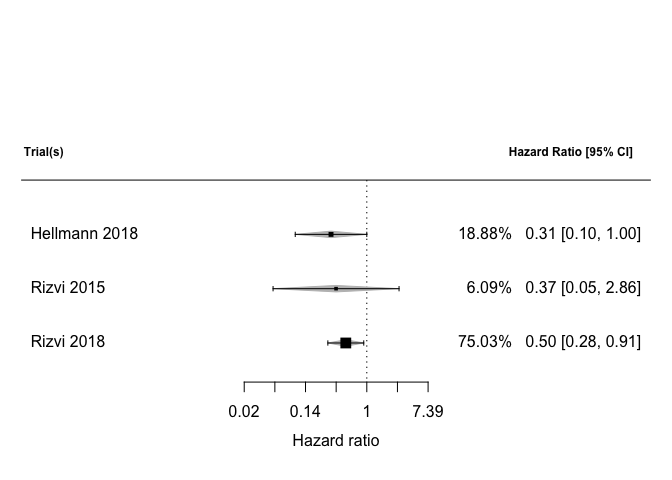
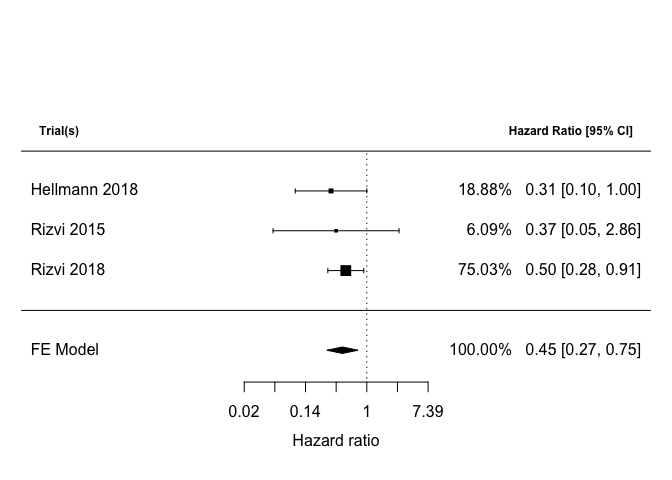
🐛 FIX: fix plotting problem

diff --git a/README.md b/README.md
@@ -3,6 +3,8 @@
 
 # metawho
 
+[![Lifecycle:
+experimental](https://img.shields.io/badge/lifecycle-experimental-orange.svg)](https://www.tidyverse.org/lifecycle/#experimental)
 [![AppVeyor build
 status](https://ci.appveyor.com/api/projects/status/github/ShixiangWang/metawho?branch=master&svg=true)](https://ci.appveyor.com/project/ShixiangWang/metawho)
 [![Travis build
@@ -117,30 +119,15 @@ Use `deft_do()` function to obtain model results.
 #> 
 #> $all$model
 #> 
-#> Fixed-Effects with Moderators Model (k = 6)
+#> Fixed-Effects Model (k = 6)
 #> 
-#> Test for Residual Heterogeneity: 
-#> QE(df = 0) = 0.0000, p-val = 1.0000
-#> 
-#> Test of Moderators (coefficient(s) 1:6): 
-#> QM(df = 6) = 25.0790, p-val = 0.0003
+#> Test for Heterogeneity: 
+#> Q(df = 5) = 18.8872, p-val = 0.0020
 #> 
 #> Model Results:
 #> 
-#>                            estimate      se     zval    pval    ci.lb
-#> entryHellmann 2018-Female   -1.2730  0.4387  -2.9015  0.0037  -2.1328
-#> entryHellmann 2018-Male     -0.1054  0.4030  -0.2614  0.7937  -0.8952
-#> entryRizvi 2015-Female      -2.2073  0.8501  -2.5966  0.0094  -3.8733
-#> entryRizvi 2015-Male        -1.2040  0.6143  -1.9600  0.0500  -2.4079
-#> entryRizvi 2018-Female      -0.4620  0.2082  -2.2190  0.0265  -0.8701
-#> entryRizvi 2018-Male         0.2231  0.2144   1.0410  0.2979  -0.1970
-#>                              ci.ub    
-#> entryHellmann 2018-Female  -0.4131  **
-#> entryHellmann 2018-Male     0.6845    
-#> entryRizvi 2015-Female     -0.5412  **
-#> entryRizvi 2015-Male       -0.0000   *
-#> entryRizvi 2018-Female     -0.0539   *
-#> entryRizvi 2018-Male        0.6433    
+#> estimate      se     zval    pval    ci.lb    ci.ub   
+#>  -0.3207  0.1289  -2.4883  0.0128  -0.5732  -0.0681  *
 #> 
 #> ---
 #> Signif. codes:  0 '***' 0.001 '**' 0.01 '*' 0.05 '.' 0.1 ' ' 1 
@@ -160,20 +147,15 @@ Use `deft_do()` function to obtain model results.
 #> 
 #> $subgroup$model
 #> 
-#> Fixed-Effects with Moderators Model (k = 3)
+#> Fixed-Effects Model (k = 3)
 #> 
-#> Test for Residual Heterogeneity: 
-#> QE(df = 0) = 0.0000, p-val = 1.0000
-#> 
-#> Test of Moderators (coefficient(s) 1:3): 
-#> QM(df = 3) = 10.0137, p-val = 0.0185
+#> Test for Heterogeneity: 
+#> Q(df = 2) = 0.5657, p-val = 0.7536
 #> 
 #> Model Results:
 #> 
-#>                     estimate      se     zval    pval    ci.lb    ci.ub   
-#> trialHellmann 2018   -1.1676  0.5957  -1.9600  0.0500  -2.3352  -0.0000  *
-#> trialRizvi 2015      -1.0033  1.0488  -0.9566  0.3387  -3.0589   1.0522   
-#> trialRizvi 2018      -0.6852  0.2988  -2.2928  0.0219  -1.2709  -0.0995  *
+#> estimate      se     zval    pval    ci.lb    ci.ub    
+#>  -0.7956  0.2589  -3.0738  0.0021  -1.3030  -0.2883  **
 #> 
 #> ---
 #> Signif. codes:  0 '***' 0.001 '**' 0.01 '*' 0.05 '.' 0.1 ' ' 1 
@@ -201,7 +183,7 @@ forest(res$subgroup$model, showweights = TRUE, atransf = exp,
        xlab = "Hazard ratio")
 op = par(no.readonly = TRUE)
 par(cex = 0.75, font = 2)
-text(-11.5, 4.5, "Trial(s)", pos = 4)
+text(-11, 4.5, "Trial(s)", pos = 4)
 text(9, 4.5, "Hazard Ratio [95% CI]", pos = 2)
 ```
 
@@ -210,6 +192,11 @@ text(9, 4.5, "Hazard Ratio [95% CI]", pos = 2)
 ``` r
 par(op)
 ```
+
+This reproduce Figure 5 of reference \#2. Of note, currently **metawho**
+only support HR values. More usage about model fit, prediction and
+plotting please refer to [metafor
+package](https://github.com/wviechtb/metafor).
 
 ## References
 

diff --git a/NEWS.md b/NEWS.md
@@ -1,4 +1,5 @@
 # metawho 0.1.0
 
+* Updated setting in `rma()` function & fixed overall result not show in figure.
 * Added function to reproduce results in wang et al (2019).
 * Added a `NEWS.md` file to track changes to the package.
